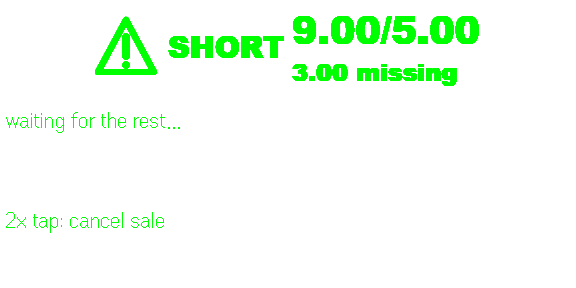
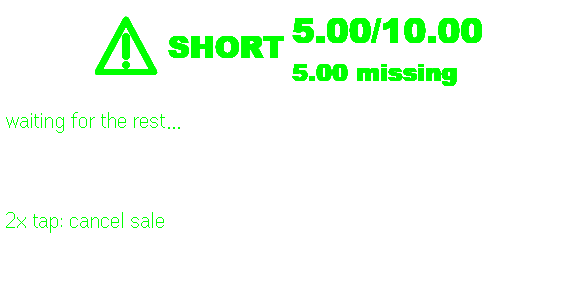
Judge pass: real-vs-simulated table, raw server log for latency, live SHORT capture, clearer mainnet pilot wording; build log kept local

Changed region(s): [[0.5, 0.0312, 0.8438, 0.1562], [0.5, 0.2188, 0.5312, 0.25]]

diff --git a/README.md b/README.md
@@ -4,13 +4,25 @@
 
 **A silent till for Even G2 glasses: say the price, the customer pays in Telegram, and the glasses show PAID only when the TON chain finalizes it. Screenshots don't count.**
 
-**[Telegram bot @ShopTillBot](https://t.me/ShopTillBot)** · **[Pay page](https://shoptill.103-195-188-198.sslip.io)** · [health check](https://shoptill.103-195-188-198.sslip.io/healthz) · **[First real payment (tonviewer)](https://testnet.tonviewer.com/transaction/060c5dce548948be0a171a0f6002f40ae40987ae4293b1e2b45cc9d56efcaefc)** · **[Mainnet payment (tonviewer)](https://tonviewer.com/transaction/4549066d17326fa1c0cd98a5a7abf0a75f6b4db7c4737552c341c87269dc6332)** · [Evidence](evidence/) · [Packaged app `shoptill.ehpk`](shoptill.ehpk) · [Demo script](DEMO_SCRIPT.md) · [Feature requests](FEATURE_REQUESTS.md) · [Build log](docs/build-log.md)
+**[Telegram bot @ShopTillBot](https://t.me/ShopTillBot)** · **[Pay page](https://shoptill.103-195-188-198.sslip.io)** · [health check](https://shoptill.103-195-188-198.sslip.io/healthz) · **[First real payment (tonviewer)](https://testnet.tonviewer.com/transaction/060c5dce548948be0a171a0f6002f40ae40987ae4293b1e2b45cc9d56efcaefc)** · **[Mainnet payment (tonviewer)](https://tonviewer.com/transaction/4549066d17326fa1c0cd98a5a7abf0a75f6b4db7c4737552c341c87269dc6332)** · [Evidence](evidence/) · [Packaged app `shoptill.ehpk`](shoptill.ehpk) · [Demo script](DEMO_SCRIPT.md) · [Feature requests](FEATURE_REQUESTS.md)
 
 ShopTill is for crypto-native sellers who take payments face to face, where the buyer already has a TON wallet. The lead case is the in-person P2P USDT trader: someone who swaps cash for USDT with a stranger and today checks tonviewer by hand. The glasses show PAID only after the chain finalizes the payment, and they flag look-alike (fake) tokens that a hand check or a naive watcher can miss. The seller keeps their eyes on the person and the goods, not on a phone. ShopTill never holds money or keys.
 
 > *"They say they paid. Is it real, or is that a screenshot?"*
 
-Heads Up: Even Realities hackathon (DoraHacks). Tracks: **Crypto & DeFi** (TON chain, TON Connect), **Messaging** (Telegram bot and Mini App) and **Best Telegram integration**. The demo runs on **TON testnet**. The same build also took **one real mainnet payment** (0.10 GRAM, [evidence](evidence/mainnet-pilot.md)).
+Heads Up: Even Realities hackathon (DoraHacks). Tracks: **Crypto & DeFi** (TON chain, TON Connect), **Messaging** (Telegram bot and Mini App) and **Best Telegram integration**. The demo runs on **TON testnet**. The same build also took **one real mainnet payment** (0.10 GRAM, [evidence](evidence/mainnet-pilot.md)); it went between the owner's own wallets, and a setup bug it exposed (the receiving wallet had to be a testnet account) is fixed.
+
+**What is real and what is not, at a glance**
+
+| | Status |
+|---|---|
+| TON chain reads, payment classification, fake-token detection | Real, on testnet (live harness 8/8, P0 11/11) |
+| Real-money payment | One, 0.10 GRAM on mainnet. Mainnet USDT not yet paid |
+| Telegram bot, Mini App, TON Connect, receipts | Real and live ([@ShopTillBot](https://t.me/ShopTillBot)) |
+| Voice price | Real PC microphone through the simulator (Groq Whisper) |
+| Glasses | Even Hub **simulator** only. Not yet run on physical G2 hardware |
+| Detection time, block to PAID | 2 to 5.5 s across 4 logged payments ([raw log](evidence/server-log.txt)) |
+| Customer wallet | Tonkeeper (testnet and mainnet). Wallet in Telegram not yet tested |
 
 ## What it looks like
 
@@ -20,7 +32,7 @@ Real 576x288 glasses captures from the Even Hub simulator against the live testn
 |:--:|:--:|:--:|
 | <img src="evidence/screens/pair.png" width="260"><br>Pairing code to send to the bot | <img src="evidence/screens/idle.png" width="260"><br>"Say a price" | <img src="evidence/screens/preset.png" width="260"><br>Preset picker (swipe, no voice needed) |
 | <img src="evidence/screens/ready.png" width="260"><br>READY 12.00 USDT, waiting | <img src="evidence/screens/fake.png" width="260"><br>FAKE: a real look-alike jetton sent on testnet, NOT PAID, still waiting | <img src="evidence/screens/paid.png" width="260"><br>PAID: the honest payment that followed on the same sale, no taps ([tx](https://testnet.tonviewer.com/transaction/a58b9325f62d44dcabba9371ff43065204942a496dfdcfd6a5e8061992bde0ea)) |
-| <img src="evidence/screens/short.png" width="260"><br>SHORT (earlier capture) | <img src="evidence/screens/confirming.png" width="260"><br>Payment seen, confirming (earlier capture) | <img src="evidence/screens/uat2-paid.png" width="260"><br>PAID 12.50 USDT from the owner's real voice run (UAT 2) |
+| <img src="evidence/screens/short.png" width="260"><br>SHORT 5.00 of 10.00, waiting for the rest (live testnet) | <img src="evidence/screens/confirming.png" width="260"><br>Payment seen, confirming (earlier capture) | <img src="evidence/screens/uat2-paid.png" width="260"><br>PAID 12.50 USDT from the owner's real voice run (UAT 2) |
 | <img src="evidence/screens/mainnet-paid.png" width="260"><br>PAID 0.10 GRAM on mainnet (pilot) | <img src="evidence/screens/tg-help-and-menu.png" width="260"><br>The bot's /help and the seller button menu (Telegram Desktop) | <img src="evidence/screens/tg-receipt.png" width="260"><br>Receipt in Telegram with the mainnet tonviewer card |
 
 ## Why this exists
@@ -191,7 +203,7 @@ Most "did they pay" tools watch for an incoming amount. On TON, anyone can send 
 
 | Evidence | What it shows | Result |
 |---|---|---|
-| [Mainnet pilot](evidence/mainnet-pilot.md) | One real 0.10 GRAM payment: voice price, paid from a Tonkeeper mainnet wallet, PAID 5.5 s after the block, receipt sent. [tonviewer](https://tonviewer.com/transaction/4549066d17326fa1c0cd98a5a7abf0a75f6b4db7c4737552c341c87269dc6332) | One real payment, end to end |
+| [Mainnet pilot](evidence/mainnet-pilot.md) | One real 0.10 GRAM payment: voice price, paid from a Tonkeeper mainnet wallet, PAID 5.5 s after the block ([raw log](evidence/server-log.txt)), receipt sent. [tonviewer](https://tonviewer.com/transaction/4549066d17326fa1c0cd98a5a7abf0a75f6b4db7c4737552c341c87269dc6332) | One real payment, end to end |
 | [UAT 2](evidence/uat-2-repair-voice-pay.md) | Re-pair, spoken "Twelve dollars fifty." heard as 12.50 USDT, paid, PAID about 2 s after the block, receipt | PASS |
 | [UAT 1](evidence/uat-1-first-payment.md) | Owner paid 12 test USDT from Tonkeeper testnet through the Mini App; PAID and a Telegram receipt. [tx](https://testnet.tonviewer.com/transaction/060c5dce548948be0a171a0f6002f40ae40987ae4293b1e2b45cc9d56efcaefc) | PASS |
 | [Live edge states](evidence/live-states.md) | The real server service against real testnet, 8 cases, each with a transaction link | **8/8** |
@@ -199,7 +211,7 @@ Most "did they pay" tools watch for an incoming amount. On TON, anyone can send 
 | [Real-input replay](evidence/real-input.md) | 2,815 real mainnet payments, read-only | Nothing falsely counted |
 | [Security audit](evidence/security-audit.md) | Three high findings found, fixed and covered by tests; limitations disclosed | See Limits |
 
-Latency, measured server-side from block time to PAID: about 2 s on testnet (UAT 2) and 5.5 s on the mainnet pilot, which ran without a TON Center API key. The live-states harness took 12 to 25 s, but that includes a wait of about 10 s for the wallet sequence number plus request throttling, so it is not user-perceived latency.
+Latency, measured server-side from block time to PAID: 2 s (UAT 2), 3.6 s and 4.1 s (testnet screenshot runs) and 5.5 s (mainnet pilot), all without a TON Center API key. The raw log lines are in [evidence/server-log.txt](evidence/server-log.txt). The live-states harness took 12 to 25 s, but that includes a wait of about 10 s for the wallet sequence number plus request throttling, so it is not user-perceived latency.
 
 **Live edge states (8/8):**
 
@@ -273,7 +285,7 @@ Latency, measured server-side from block time to PAID: about 2 s on testnet (UAT
 - **Runs on one VPS as root.** The service has `NoNewPrivileges` and `PrivateTmp`; a dedicated user is left for later.
 - **Pairing.** It is trust on first use, and the global pairing lockout can be tripped by an attacker to block new pairings (denial of service).
 - **One receiving address per shop.** Two shops sharing one receiving address would conflict.
-- **TON Center without an API key.** It is rate limited, which is why mainnet detection took 5.5 s instead of about 2 s. I have not measured with a key.
+- **TON Center without an API key.** It is rate limited, which likely adds to the 2 to 5.5 s detection time. I have not measured with a key.
 - **Mainnet is thin.** One payment (GRAM, from Tonkeeper). Mainnet USDT and Gram Wallet are untested.
 - **Voice.** Tried through the simulator microphone in UAT 2 ("Twelve dollars fifty." gave 12.50 USDT) and the mainnet pilot ("zero point one gram." gave 0.10 GRAM). Misheard first tries happened (250, 50, and "0.1" without "gram"); the confirm screen caught them, and a word between the numbers ("dollars") makes recognition much more reliable.
 - **Untested live:** `/history` and the seller DM with the glasses closed. `/today` counts are unit-tested.

diff --git a/DEMO_SCRIPT.md b/DEMO_SCRIPT.md
@@ -29,7 +29,7 @@ Everything on screen is the real product against the live server on TON testnet.
 1. `curl -s https://shoptill.103-195-188-198.sslip.io/healthz` returns OK.
 2. The glasses simulator shows "Say a price", not "Offline - retrying". If it shows a pairing code, the DB was reset: re-pair first.
 3. Customer wallet balance check: the pay page does a pre-flight and refuses if there is not enough USDT or GRAM for gas (a failed send would waste a take).
-4. Rehearse once and note the real time from "Pay" to PAID. Measured server-side from block time to PAID: about 2 s on testnet (UAT 2) and 5.5 s on the mainnet pilot without a TON Center API key. The P0 spike saw 1.3 to 3.6 s from send acceptance. The live-states harness took 12 to 25 s, which includes a wait of about 10 s for the sequence number and throttling, so it is not user-perceived latency. Do not narrate a number you did not see in this take. If it is slow, the dead air is real: cover it with the caption "waiting for the chain", do not cut it.
+4. Rehearse once and note the real time from "Pay" to PAID. Measured server-side from block time to PAID: 2 to 5.5 s across 4 logged payments (`evidence/server-log.txt`), no TON Center API key. The P0 spike saw 1.3 to 3.6 s from send acceptance. The live-states harness took 12 to 25 s, which includes a wait of about 10 s for the sequence number and throttling, so it is not user-perceived latency. Do not narrate a number you did not see in this take. If it is slow, the dead air is real: cover it with the caption "waiting for the chain", do not cut it.
 5. Voice: tried through the simulator mic in UAT 2 ("Twelve dollars fifty." heard as 12.50 USDT) and in the mainnet pilot ("zero point one gram." heard as 0.10 GRAM). Early tries misheard (250, 50, "0.1" without gram) and the confirm screen caught them. Say a word between numbers ("twelve dollars fifty"). Try the mic once before recording. If it fails, use swipe presets (Scene 3 gives both).
 
 ## Scenes
@@ -129,7 +129,7 @@ About 380 spoken words across scenes 1 to 7. At a slow, confident 130 to 140 wor
 - Do not say the 2,815-payment replay shows detection. It shows nothing was falsely counted; no real payment was matched to a sale.
 - Do not say it works on physical G2 hardware. It ran in the simulator.
 - Do not say the glasses alert the seller when the app is closed. They can't (Even Hub limit). The bot DM goes to the phone instead.
-- Do not give a latency number unless you saw it in this take. Say "when the chain confirms". (Measured: about 2 s on testnet, 5.5 s on the mainnet pilot.)
+- Do not give a latency number unless you saw it in this take. Say "when the chain confirms". (Measured: 2 to 5.5 s, `evidence/server-log.txt`.)
 - Do not say Gram Wallet paid in the demo. Gram Wallet is mainnet only; the testnet customer is Tonkeeper testnet, connected with TON Connect.
 - Do not say it integrates TON Pay or has paying customers. Pricing and TVM fit are plans.
 - Do not present the fallback harness clip as a live attack.

diff --git a/FEATURE_REQUESTS.md b/FEATURE_REQUESTS.md
@@ -10,7 +10,7 @@ Five things the platforms were missing while building ShopTill (Even G2 + Even H
 ## 2. Even Hub: on-device speech-to-text, or an official STT path
 
 **Request:** a built-in STT call on the bridge, or a documented, keyless STT service for apps.
-**Why it mattered for ShopTill:** the asr template keeps the STT key in the frontend bundle. For a payments app that is not acceptable, so we record PCM on the glasses and post a WAV to our own server, which calls Groq Whisper. That adds a server hop, a third-party dependency and a quota to protect (we rate limit 12 requests per minute per device). Voice is how the seller arms a sale hands-free, so it matters.
+**Why it mattered for ShopTill:** the asr template keeps the STT key in the frontend bundle. For a payments app that is not acceptable, so we record PCM on the glasses and post a WAV to our own server, which calls Groq Whisper. That adds a server hop, a third-party dependency and a quota to protect (we rate limit 12 requests per minute per device and 30 per minute per IP). Voice is how the seller arms a sale hands-free, so it matters.
 
 ## 3. Even Hub: a published glyph and font reference for the 576x288 display
 
